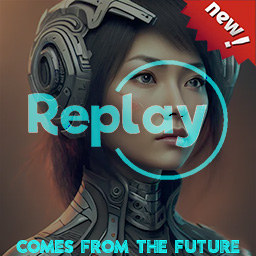
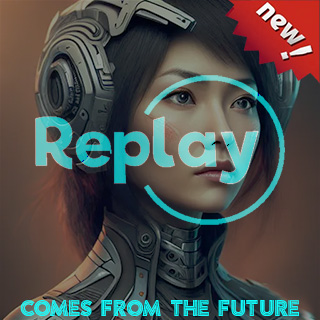
1234

diff --git a/subwwww/tools.html b/subwwww/tools.html
@@ -258,25 +258,25 @@ if (navigator.language)var language = navigator.language;else var language = nav
 <style class="column_class qfy_style_class">.qfy-column-2-62242a9f032cc517023 > .column_inner {padding-left:30px;padding-right:30px;padding-top:40px;padding-bottom:40px;}@media only screen and (min-width: 992px){.qfe_row .vc_span_class.qfy-column-2-62242a9f032cc517023 {}}@media only screen and (max-width: 992px){.qfy-column-2-62242a9f032cc517023 > .column_inner{margin:0 auto 20px !important;min-height:0 !important;padding-left:10px;padding-right:10px;padding-top:10px;padding-bottom:10px;}.display_entire .qfe_row .vc_span_class.qfy-column-2-62242a9f032cc517023 {}.qfy-column-2-62242a9f032cc517023 > .column_inner> .background-overlay,.qfy-column-2-62242a9f032cc517023 > .column_inner> .background-media{width:100% !important;left:0 !important;right:auto !important;}}</style><div data-animaleinbegin="90%" data-animalename="qfyfadeInUp" data-duration="" data-delay="" class=" qfy-column-3-62242a9f03df7331621 qfy-column-inner  vc_span_class  vc_span4  text-Default small-screen-undefined notfullrow" data-dw="1/3" data-fixheight=""><div style="margin-top:0;margin-bottom:0;margin-left:10px;margin-right:10px;border-radius:0px;;position:relative;" class="column_inner "><div class=" background-overlay grid-overlay-0" style="background-color: #f4f4f4;width:100%;"></div><div class="column_containter" style="z-index:3;position:relative;">
 	<div id="vc_img_62242a9f0436f375" style="padding:0px;margin:0px;clear:both;position:relative;margin-top:0;margin-bottom:0;padding-top:0;padding-bottom:0;padding-right:0;padding-left:0;background-position:0 0;background-repeat: no-repeat;" m-padding="0px 0px 0px 0px" p-padding="0 0 0 0" css_animation_delay="0" qfyuuid="qfy_single_image_xxk4p" data-anitime="0.7" class="qfy-element bitImageControlDiv "><style>@media only screen and (max-width: 768px) {.single_image_text-62242a9f0438a977 .head{font-size: 16px !important;}.single_image_text-62242a9f0438a977 .content{font-size: 16px !important;}}</style><a class="bitImageAhover  ">
 	<div class="bitImageParentDiv qfe_single_image qfe_content_element vc_align_center">
-		<div class="qfe_wrapper"><span></span><img class="front_image   ag_image" src="./tools/talkingheads.jpg" alt="talkingheads.jpg" description="" data-attach-id="15614" data-title="talkingheads.jpg" title="" src-img="" style=""></div> 
+		<div class="qfe_wrapper"><span></span><img class="front_image   ag_image" src="./tools/replay.jpg" alt="replay.jpg" description="" data-attach-id="15614" data-title="talkingheads.jpg" title="" src-img="" style=""></div> 
 	</div> 
 	</a></div><a class="bitImageAhover  "> </a>
 	<div id="vc_header_62242a9f04464186" m-padding="20px 0px 10px 0px" p-padding="20px 0 10px 0" css_animation_delay="0" qfyuuid="qfy_header_tgxgl" data-anitime="0.7" data-ani_iteration_count="1" class="qfy-element minheigh1px qfe_text_column qfe_content_element " style="position: relative;;;background-repeat: no-repeat;;margin-top:0;margin-bottom:0;padding-top:20px;padding-bottom:10px;padding-right:0;padding-left:0;"><style>@media only screen and (max-width: 768px) {#vc_header_62242a9f04464186 .header_title{font-size:14px !important;}}@media only screen and (max-width: 768px) {#vc_header_62242a9f04464186 .header_subtitle{font-size:14px !important;}}</style>
 		<div class="qfe_wrapper">
-			<div class="qfy_title left mobileleft"><div class="qfy_title_image_warpper" style="display:inline-block;position:relative;max-width:100%;"><div class="qfy_title_inner" style="display:inline-block;position:relative;max-width:100%;"><div class="header_title" style="font-family:微软雅黑;font-size:16px;font-weight:normal;font-style:normal;color:#000;padding:0 10px 0 0;display:inline-block;padding:0 10px 0 0;vertical-align:middle;">TalkingHeads</div><div class="header_subtitle" style="font-size:15px;font-weight:normal;font-style:normal;color:#888888;display:inline-block;vertical-align:middle;">PC电脑软件</div></div><style></style><div class="button_wrapper" style="display:none;"><div class="button " style="display:inline-block;max-width:100%;text-align:center; font-size:14px; color:#333; padding:5px;">+ 查看更多</div></div><span style="clear:both;"></span></div></div>
+			<div class="qfy_title left mobileleft"><div class="qfy_title_image_warpper" style="display:inline-block;position:relative;max-width:100%;"><div class="qfy_title_inner" style="display:inline-block;position:relative;max-width:100%;"><div class="header_title" style="font-family:微软雅黑;font-size:16px;font-weight:normal;font-style:normal;color:#000;padding:0 10px 0 0;display:inline-block;padding:0 10px 0 0;vertical-align:middle;">Replay重演</div><div class="header_subtitle" style="font-size:15px;font-weight:normal;font-style:normal;color:#888888;display:inline-block;vertical-align:middle;">PC电脑软件</div></div><style></style><div class="button_wrapper" style="display:none;"><div class="button " style="display:inline-block;max-width:100%;text-align:center; font-size:14px; color:#333; padding:5px;">+ 查看更多</div></div><span style="clear:both;"></span></div></div>
 		</div> 
 	</div> 
 	<div m-padding="0px 0px 0px 0px" p-padding="   " css_animation_delay="0" qfyuuid="qfy_column_text_smm7s" class="qfy-element qfy-text qfy-text-69538 qfe_text_column qfe_content_element  mobile_fontsize " style="position: relative;;;line-height:1.5em;;background-position:0 0;background-repeat: no-repeat;;margin-top:;margin-bottom:;padding-top:;padding-bottom:;padding-right:;padding-left:;border-radius:0px;">
 		<div class="qfe_wrapper ">
 			<div style="position: relative;">
-<div><span style="color: rgb(0, 0, 0);">可以让大头照片一键说话和唱歌,这是你见过嘴型同步最棒十分好玩的AI工具！<br><br><br></span></div><div><span style="color: rgb(0, 0, 0);"></span></div><div><span style="color: rgb(0, 0, 0);"><br></span></div><div><span style="color: rgb(0, 0, 0);"></span></div>
+<div><span style="color: rgb(0, 0, 0);">低门槛数字人软件，输入文本(或音频)后与自己的视频一键对口型！是respeak兄弟软件,已把价格打下来了🙂<br><br></span></div><div><span style="color: rgb(0, 0, 0);"></span></div><div><span style="color: rgb(0, 0, 0);"><br></span></div><div><span style="color: rgb(0, 0, 0);"></span></div>
 </div>
 		</div> 
 	</div>
 
 
 	<div id="qfy-btn-62242a9f0460d88" style="margin-top:0;margin-bottom:0;padding-top:0;padding-bottom:0;padding-right:0;padding-left:0;" m-padding="0px 0px 0px 0px" p-padding="0 0 0 0" css_animation_delay="0" qfyuuid="qfy_btn_8df4h" data-anitime="0.7" data-ani_iteration_count="1" class="qfy-element vc_btn3-container vc_btn3-center">
-<a onmouseleave="this.style.borderColor=&#39;#555&#39;; this.style.backgroundColor=&#39;#555&#39;; this.style.color=&#39;#fff&#39;;" onmouseenter="this.style.backgroundColor=&#39;#464646&#39;; this.style.borderColor=&#39;#464646&#39;; this.style.color=&#39;#fff&#39;;" style="border-width:2px; border-color:#555; background-color:#555; color:#fff;" class="vc_general vc_btn3 vc_btn3-size-sm vc_btn3-shape-square vc_btn3-style-qfy-custom" href="talkingheads.html" target="">免费下载</a></div>
+<a onmouseleave="this.style.borderColor=&#39;#555&#39;; this.style.backgroundColor=&#39;#555&#39;; this.style.color=&#39;#fff&#39;;" onmouseenter="this.style.backgroundColor=&#39;#464646&#39;; this.style.borderColor=&#39;#464646&#39;; this.style.color=&#39;#fff&#39;;" style="border-width:2px; border-color:#555; background-color:#555; color:#fff;" class="vc_general vc_btn3 vc_btn3-size-sm vc_btn3-shape-square vc_btn3-style-qfy-custom" href="replay.html" target="">免费下载</a></div>
 
 
 	<br><div class="qfe_wrapper " style="display: none;"><div style="position: relative;"><div>
@@ -595,25 +595,25 @@ if (navigator.language)var language = navigator.language;else var language = nav
 <style class="column_class qfy_style_class">.qfy-column-2-62242a9f032cc517023 > .column_inner {padding-left:30px;padding-right:30px;padding-top:40px;padding-bottom:40px;}@media only screen and (min-width: 992px){.qfe_row .vc_span_class.qfy-column-2-62242a9f032cc517023 {}}@media only screen and (max-width: 992px){.qfy-column-2-62242a9f032cc517023 > .column_inner{margin:0 auto 20px !important;min-height:0 !important;padding-left:10px;padding-right:10px;padding-top:10px;padding-bottom:10px;}.display_entire .qfe_row .vc_span_class.qfy-column-2-62242a9f032cc517023 {}.qfy-column-2-62242a9f032cc517023 > .column_inner> .background-overlay,.qfy-column-2-62242a9f032cc517023 > .column_inner> .background-media{width:100% !important;left:0 !important;right:auto !important;}}</style><div data-animaleinbegin="90%" data-animalename="qfyfadeInUp" data-duration="" data-delay="" class=" qfy-column-3-62242a9f03df7331621 qfy-column-inner  vc_span_class  vc_span4  text-Default small-screen-undefined notfullrow" data-dw="1/3" data-fixheight=""><div style="margin-top:0;margin-bottom:0;margin-left:10px;margin-right:10px;border-radius:0px;;position:relative;" class="column_inner "><div class=" background-overlay grid-overlay-0" style="background-color: #f4f4f4;width:100%;"></div><div class="column_containter" style="z-index:3;position:relative;">
 	<div id="vc_img_62242a9f0436f375" style="padding:0px;margin:0px;clear:both;position:relative;margin-top:0;margin-bottom:0;padding-top:0;padding-bottom:0;padding-right:0;padding-left:0;background-position:0 0;background-repeat: no-repeat;" m-padding="0px 0px 0px 0px" p-padding="0 0 0 0" css_animation_delay="0" qfyuuid="qfy_single_image_xxk4p" data-anitime="0.7" class="qfy-element bitImageControlDiv "><style>@media only screen and (max-width: 768px) {.single_image_text-62242a9f0438a977 .head{font-size: 16px !important;}.single_image_text-62242a9f0438a977 .content{font-size: 16px !important;}}</style><a class="bitImageAhover  ">
 	<div class="bitImageParentDiv qfe_single_image qfe_content_element vc_align_center">
-		<div class="qfe_wrapper"><span></span><img class="front_image   ag_image" src="./tools/audiospilt.jpg" alt="audiospilt.jpg" description="" data-attach-id="15614" data-title="audiospilt.jpg" title="" src-img="" style=""></div> 
+		<div class="qfe_wrapper"><span></span><img class="front_image   ag_image" src="./tools/talkingheads.jpg" alt="talkingheads.jpg" description="" data-attach-id="15614" data-title="talkingheads.jpg" title="" src-img="" style=""></div> 
 	</div> 
 	</a></div><a class="bitImageAhover  "> </a>
 	<div id="vc_header_62242a9f04464186" m-padding="20px 0px 10px 0px" p-padding="20px 0 10px 0" css_animation_delay="0" qfyuuid="qfy_header_tgxgl" data-anitime="0.7" data-ani_iteration_count="1" class="qfy-element minheigh1px qfe_text_column qfe_content_element " style="position: relative;;;background-repeat: no-repeat;;margin-top:0;margin-bottom:0;padding-top:20px;padding-bottom:10px;padding-right:0;padding-left:0;"><style>@media only screen and (max-width: 768px) {#vc_header_62242a9f04464186 .header_title{font-size:14px !important;}}@media only screen and (max-width: 768px) {#vc_header_62242a9f04464186 .header_subtitle{font-size:14px !important;}}</style>
 		<div class="qfe_wrapper">
-			<div class="qfy_title left mobileleft"><div class="qfy_title_image_warpper" style="display:inline-block;position:relative;max-width:100%;"><div class="qfy_title_inner" style="display:inline-block;position:relative;max-width:100%;"><div class="header_title" style="font-family:微软雅黑;font-size:16px;font-weight:normal;font-style:normal;color:#000;padding:0 10px 0 0;display:inline-block;padding:0 10px 0 0;vertical-align:middle;">Audio Split</div><div class="header_subtitle" style="font-size:15px;font-weight:normal;font-style:normal;color:#888888;display:inline-block;vertical-align:middle;">PC电脑软件</div></div><style></style><div class="button_wrapper" style="display:none;"><div class="button " style="display:inline-block;max-width:100%;text-align:center; font-size:14px; color:#333; padding:5px;">+ 查看更多</div></div><span style="clear:both;"></span></div></div>
+			<div class="qfy_title left mobileleft"><div class="qfy_title_image_warpper" style="display:inline-block;position:relative;max-width:100%;"><div class="qfy_title_inner" style="display:inline-block;position:relative;max-width:100%;"><div class="header_title" style="font-family:微软雅黑;font-size:16px;font-weight:normal;font-style:normal;color:#000;padding:0 10px 0 0;display:inline-block;padding:0 10px 0 0;vertical-align:middle;">TalkingHeads</div><div class="header_subtitle" style="font-size:15px;font-weight:normal;font-style:normal;color:#888888;display:inline-block;vertical-align:middle;">PC电脑软件</div></div><style></style><div class="button_wrapper" style="display:none;"><div class="button " style="display:inline-block;max-width:100%;text-align:center; font-size:14px; color:#333; padding:5px;">+ 查看更多</div></div><span style="clear:both;"></span></div></div>
 		</div> 
 	</div> 
 	<div m-padding="0px 0px 0px 0px" p-padding="   " css_animation_delay="0" qfyuuid="qfy_column_text_smm7s" class="qfy-element qfy-text qfy-text-69538 qfe_text_column qfe_content_element  mobile_fontsize " style="position: relative;;;line-height:1.5em;;background-position:0 0;background-repeat: no-repeat;;margin-top:;margin-bottom:;padding-top:;padding-bottom:;padding-right:;padding-left:;border-radius:0px;">
 		<div class="qfe_wrapper ">
 			<div style="position: relative;">
-<div><span style="color: rgb(0, 0, 0);">一键分离人声与伴奏简单高效,是motionface音频口型驱动必备工具。<br><br></span></div><div><span style="color: rgb(0, 0, 0);"></span></div><div><span style="color: rgb(0, 0, 0);"><br></span></div><div><span style="color: rgb(0, 0, 0);"></span></div>
+<div><span style="color: rgb(0, 0, 0);">可以让大头照片一键说话和唱歌,这是你见过嘴型同步最棒十分好玩的AI工具！<br><br></span></div><div><span style="color: rgb(0, 0, 0);"></span></div><div><span style="color: rgb(0, 0, 0);"><br></span></div><div><span style="color: rgb(0, 0, 0);"></span></div>
 </div>
 		</div> 
 	</div>
 
 
 	<div id="qfy-btn-62242a9f0460d88" style="margin-top:0;margin-bottom:0;padding-top:0;padding-bottom:0;padding-right:0;padding-left:0;" m-padding="0px 0px 0px 0px" p-padding="0 0 0 0" css_animation_delay="0" qfyuuid="qfy_btn_8df4h" data-anitime="0.7" data-ani_iteration_count="1" class="qfy-element vc_btn3-container vc_btn3-center">
-<a onmouseleave="this.style.borderColor=&#39;#555&#39;; this.style.backgroundColor=&#39;#555&#39;; this.style.color=&#39;#fff&#39;;" onmouseenter="this.style.backgroundColor=&#39;#464646&#39;; this.style.borderColor=&#39;#464646&#39;; this.style.color=&#39;#fff&#39;;" style="border-width:2px; border-color:#555; background-color:#555; color:#fff;" class="vc_general vc_btn3 vc_btn3-size-sm vc_btn3-shape-square vc_btn3-style-qfy-custom" href="https://pan.baidu.com/s/1diafcxgGpnLobEVlOHvdgA?pwd=uvef" target="">免费下载使用</a></div>
+<a onmouseleave="this.style.borderColor=&#39;#555&#39;; this.style.backgroundColor=&#39;#555&#39;; this.style.color=&#39;#fff&#39;;" onmouseenter="this.style.backgroundColor=&#39;#464646&#39;; this.style.borderColor=&#39;#464646&#39;; this.style.color=&#39;#fff&#39;;" style="border-width:2px; border-color:#555; background-color:#555; color:#fff;" class="vc_general vc_btn3 vc_btn3-size-sm vc_btn3-shape-square vc_btn3-style-qfy-custom" href="talkingheads.html" target="">免费下载</a></div>
 	<br><div class="qfe_wrapper " style="display: none;"><div style="position: relative;"><div>
 <span style="color: rgb(0, 0, 0);">参考价格: <span style="color: rgb(255, 0, 0);"><del>原价￥399 </span> </del>￥299  (永久使用) </span>
 </div>

diff --git a/subwwww/replay.html b/subwwww/replay.html
@@ -51,7 +51,7 @@ var _hmt = _hmt || [];
 </script>
 
 <div id="page" class="bodyheader0 header_bg_mobilehide wide "><div id="dl-menu" class="dl-menuwrapper wf-mobile-visible floatmenu fullfloatmenu left" style="right: 8px; top: 8px;"><a data-padding="" data-top="8" data-right="8" rel="nofollow" id="mobile-menu" class="glyphicon glyphicon-icon-align-justify displaynone fullfloatmenu positionFixed left">
-				<span class="menu-open  phone-text">Motionface软件|Video Respeak下载|使用教程</span>
+				<span class="menu-open  phone-text">Motionface软件|Video Replay下载|使用教程</span>
 				<span class="menu-close">关闭</span>
 				<span class="menu-back">返回上一级</span>
 				<span class="wf-phone-visible">&nbsp;</span>
@@ -149,7 +149,7 @@ var _hmt = _hmt || [];
             <div data-animaleinbegin="90%" data-animalename="qfyfadeInUp" data-duration="" data-delay="" class=" qfy-column-1-624fe2606d9f2295343 qfy-column-inner  vc_span12  text-center small-screen-left fullrow" data-dw="1/1" data-fixheight=""><div style="margin-top:0;margin-bottom:0;margin-left:0;margin-right:0;border-radius:0px;;position:relative;" class="column_inner "><div class=" background-overlay grid-overlay-0" style="background-color: transparent;width:100%;"></div><div class="column_containter" style="z-index:3;position:relative;">
 	<div id="vc_header_624fe2606dad3139" m-padding="0px 0px 0px 0px" p-padding="0 0 0 0" css_animation_delay="0" qfyuuid="qfy_header_osdp8" data-anitime="0.7" data-ani_iteration_count="1" class="qfy-element minheigh1px qfe_text_column qfe_content_element " style="position: relative;;;background-repeat: no-repeat;;margin-top:0;margin-bottom:0;padding-top:0;padding-bottom:0;padding-right:0;padding-left:0;"><style>@media only screen and (max-width: 768px) {#vc_header_624fe2606dad3139 .header_title{font-size:20px !important;}}@media only screen and (max-width: 768px) {#vc_header_624fe2606dad3139 .header_subtitle{font-size:20px !important;}}</style>
 		<div class="qfe_wrapper">
-			<h2 class="qfy_title center mobilecenter"><div class="qfy_title_inner" style="display:inline-block;position:relative;max-width:100%;"><div class="header_title" style="font-family:微软雅黑;font-size:30px;font-weight:normal;font-style:normal;color:#333333;">Video Replay</div></div><style></style><div class="button_wrapper" style="display:none;"><div class="button " style="display:inline-block;max-width:100%;text-align:center; font-size:14px; color:#333; padding:5px;">+ 查看更多</div></div><span style="clear:both;"></span></h2>
+			<h2 class="qfy_title center mobilecenter"><div class="qfy_title_inner" style="display:inline-block;position:relative;max-width:100%;"><div class="header_title" style="font-family:微软雅黑;font-size:30px;font-weight:normal;font-style:normal;color:#333333;">Replay重演</div></div><style></style><div class="button_wrapper" style="display:none;"><div class="button " style="display:inline-block;max-width:100%;text-align:center; font-size:14px; color:#333; padding:5px;">+ 查看更多</div></div><span style="clear:both;"></span></h2>
 		</div> 
 	</div> 
 	<div m-padding="18px 0px 38px 0px" p-padding="15px 0 0 0" css_animation_delay="0" qfyuuid="qfy_column_text_5w5yu" data-anitime="0.7" data-ani_iteration_count="1" class="qfy-element qfy-text qfy-text-28467 qfe_text_column qfe_content_element  " style="position: relative;;;line-height:2em;;background-color: transparent;background-position:0 0;background-repeat: no-repeat;;margin-top:0;margin-bottom:0;padding-top:15px;padding-bottom:0;padding-right:0;padding-left:0;border-radius:0px;">
